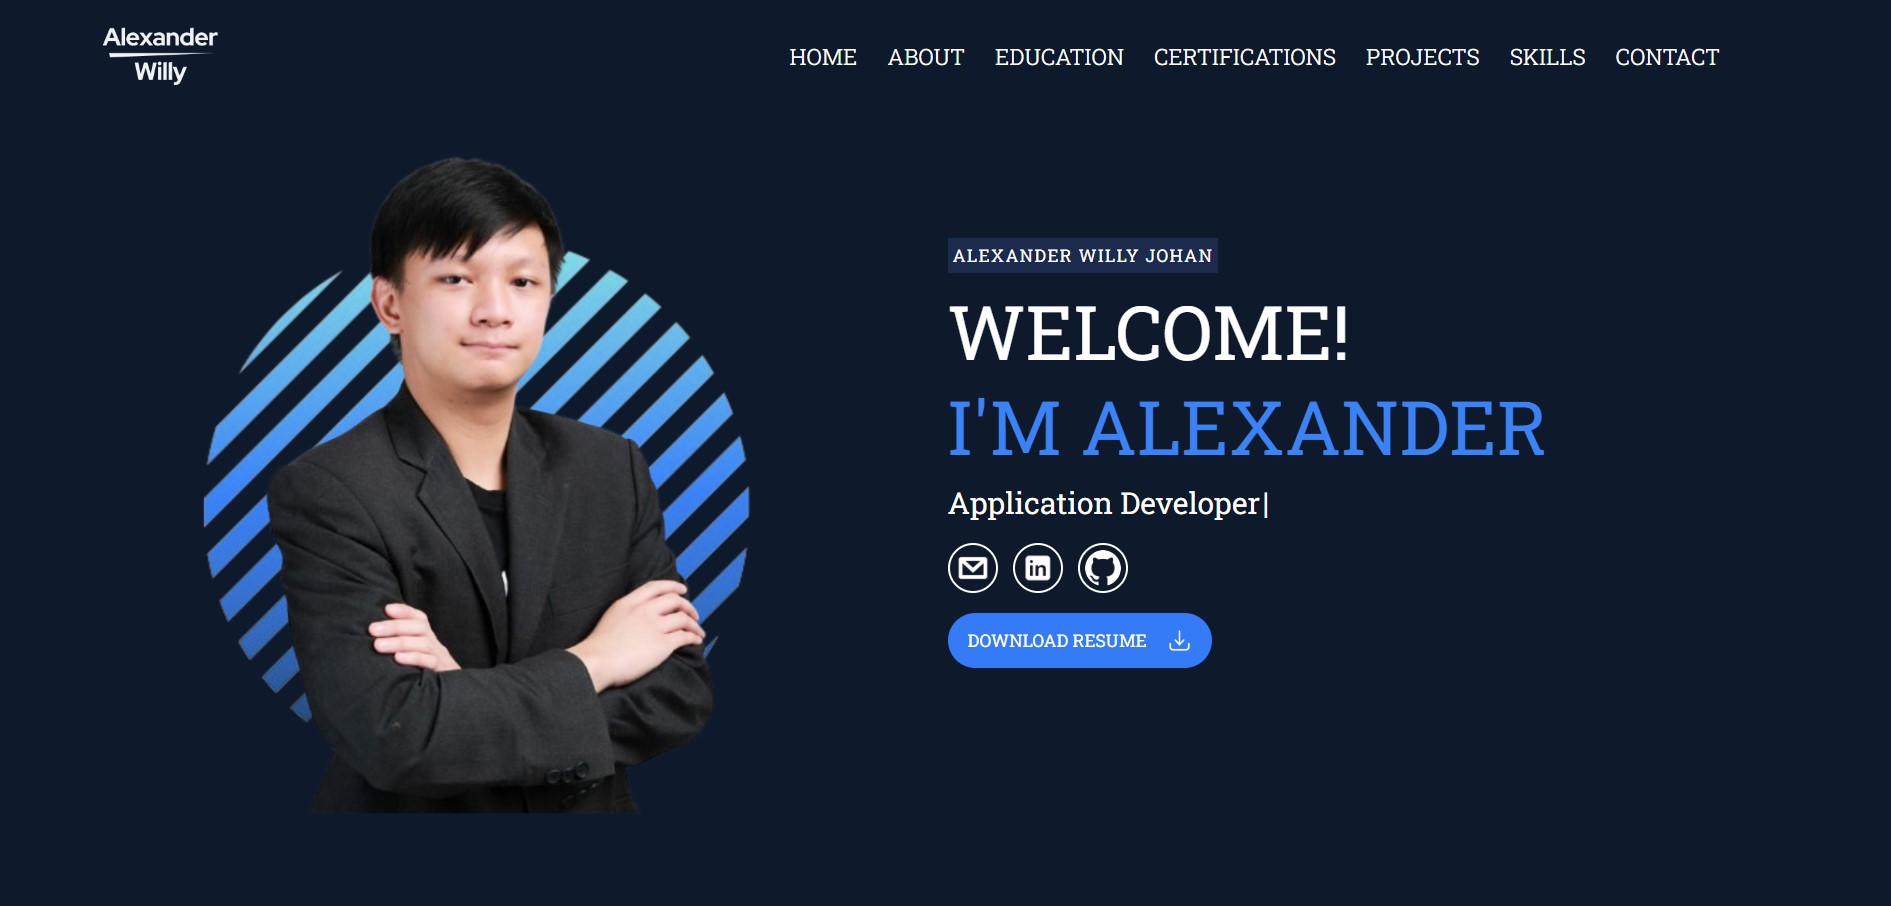
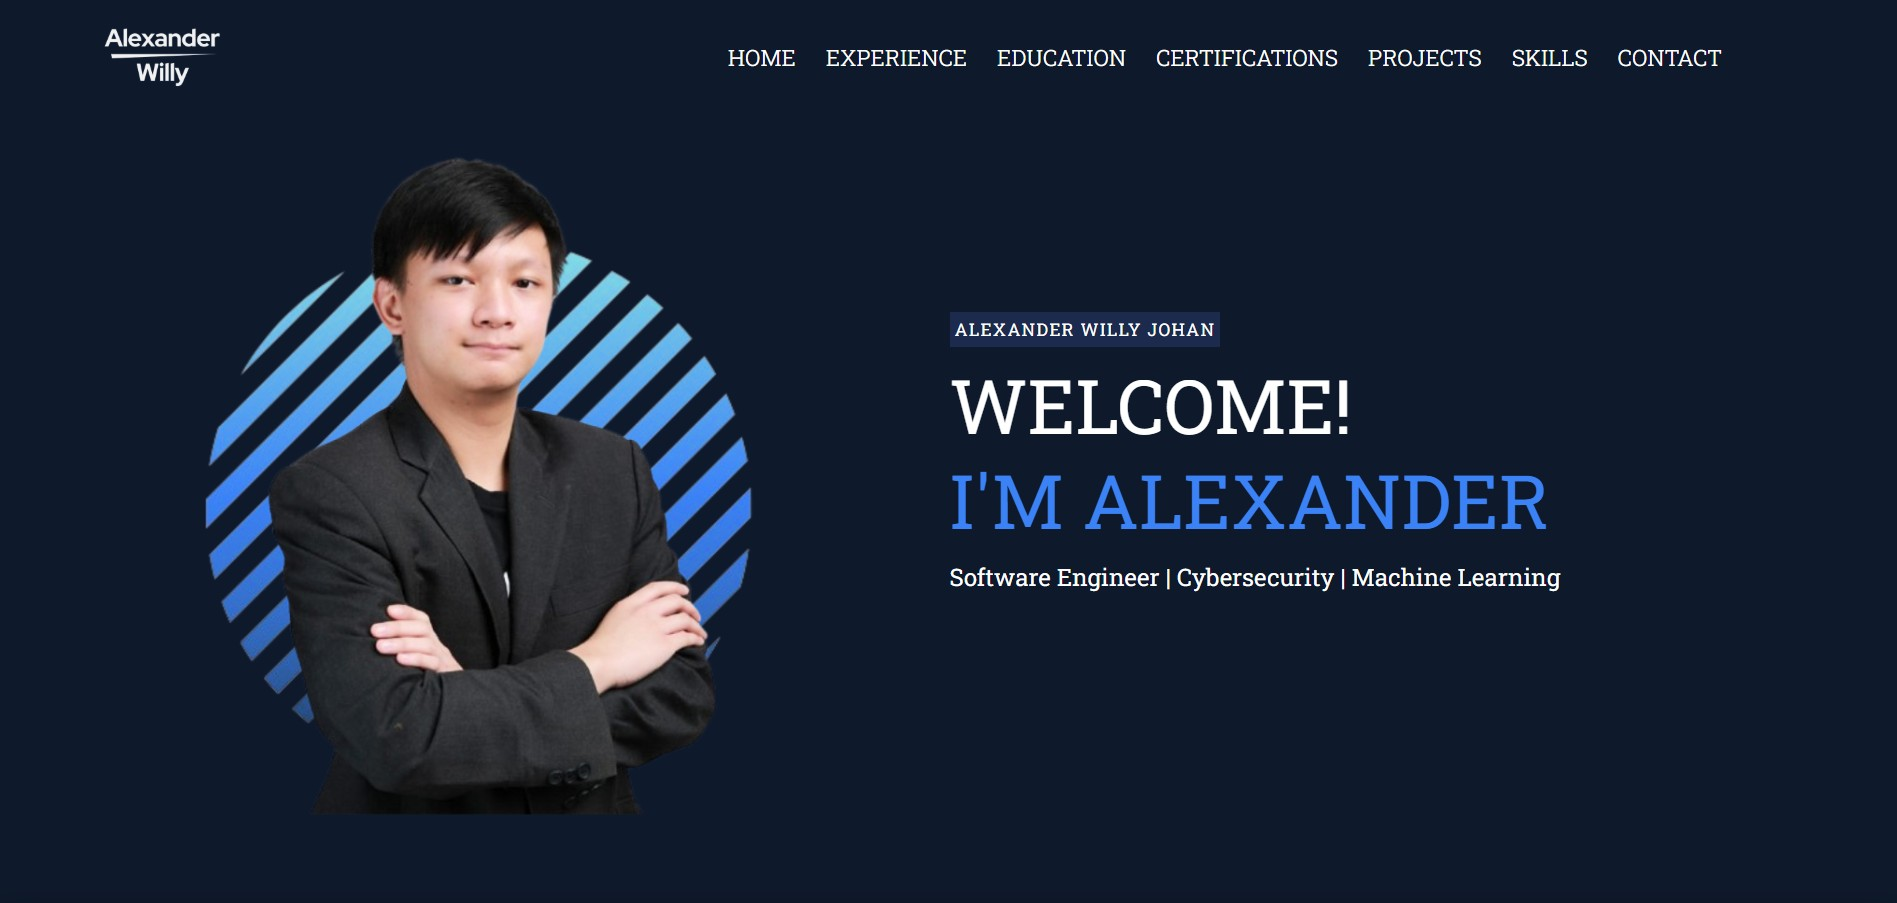
added education

diff --git a/src/App.js b/src/App.js
@@ -10,6 +10,7 @@ import github_icon from './props/img/social_media/github_icon.png';
 // Experience
 import trees_solutions from './props/img/experience/pt__trees_solutions_logo.jpeg'
 // Education
+import smu_logo from './props/img/education/smu_logo.png';
 import uow_logo from './props/img/education/uow_logo.png';
 import simge_logo from './props/img/education/simge_logo.png';
 // Certifications
@@ -103,7 +104,7 @@ const App = () => {
 
             <div className='home-text'>
               
-              <span>Application Developer | Software Engineer | Cybersecurity</span>
+              <span>Software Engineer | Cybersecurity | Machine Learning</span>
 
             </div>
             
@@ -122,8 +123,8 @@ const App = () => {
         <div>
           <span>
             <h1>PT. TREES SOLUTIONS</h1>
-            <h6>Oct 2024 - Present</h6>
-            <h3>Cybersecurity Intern</h3>
+            <h6>Oct 2024 - Dec 2024</h6>
+            <h3>Functional Consultant Intern</h3>
             <ul>
               <li>Conducts vulnerability assessment and penetration testing on a web application and follows the OWASP Top 10: 2021 guidelines to identify security weaknesses.</li>
             </ul>
@@ -144,14 +145,27 @@ const App = () => {
         </h1>
         <div>
           <div>
+            <img src = {smu_logo} alt = "smu_logo" />
+          </div>
+          <span>
+            <h1>SINGAPORE MANAGEMENT UNIVERSITY</h1>
+            <h6>Jan 2025 - Apr 2026 <strong>(Expected)</strong></h6>
+            <h3>Master of IT in Business (Artificial Intelligence Track)</h3>
+            <ul>
+              <li>Recipient of the SMU PG ASEAN Scholarship</li>
+            </ul>
+          </span>
+        </div>
+        <div>
+          <div>
             <img src = {uow_logo} alt = "uow_logo" />
           </div>
           <span>
             <h1>UNIVERSITY OF WOLLONGONG - SIM CAMPUS</h1>
-            <h6>Oct 2022 - Dec 2024 <strong>(Expected)</strong></h6>
+            <h6>Oct 2022 - Dec 2024</h6>
             <h3>Bachelor of Computer Science (Cyber Security)</h3>
             <ul>
-              <li>Current equivalent GPA: 3.86/4.00</li>
+              <li>WAM: 84.31/100.00 (equivalent GPA: 3.85/4.00)</li>
             </ul>
           </span>
         </div>
@@ -228,6 +242,7 @@ const App = () => {
             <h1>Cafe Staff Management System</h1>
             <p>A system that supports Cafe owners in viewing and managing Cafe work slots, supports cafe staff in bidding for work slots and the cafe role, and supports cafe managers in reviewing and managing cafe staff and their work slot bids.</p>
             <div>
+              <button disabled>Repository Not Available</button>
             </div>
           </div>
           <div>
@@ -319,7 +334,7 @@ const App = () => {
       
       <footer>
         <div className='footer'>
-          <span>© 2024 Alexander Willy Johan</span>
+          <span>© 2025 Alexander Willy Johan</span>
         </div>
       </footer>
       

diff --git a/src/App.css b/src/App.css
@@ -140,6 +140,10 @@ section:nth-child(odd) {
 }
 
 /* Education Section */
+.edu{
+  justify-content: flex-start;
+  padding: 12vh 0;
+}
 .edu > div {
   background-color: #1c2b4d;
   padding: 1.5rem 2.5rem;
@@ -153,6 +157,7 @@ section:nth-child(odd) {
   height: 25vh;
   border: 2px solid black;
   box-shadow: 0px 2px 5px 0px black;
+  background-color: white;
 }
 
 .edu span {
@@ -223,7 +228,7 @@ section:nth-child(odd) {
   width: 100%;
   text-align: center;
   font-weight: 500;
-  color: #357bf7;
+  color: #ffd726;
 }
 
 .certs div h6,
@@ -307,6 +312,18 @@ section:nth-child(odd) {
 .projects a:hover {
   background-color: #60a5fa;
   transition: 0.5s;
+}
+
+.projects button {
+  background-color: #4c4c4c;
+  padding: 6px 12px 6px 12px;
+  border-radius: 5px;
+  color: white;
+  font-size: 12px;
+  text-decoration: none;
+  transition: 0.5s;
+  width: 220px;
+  text-align: center;
 }
 
 /* Skills */
@@ -577,6 +594,10 @@ footer {
 
   .projects img {
     height: 22.5vh;
+  }
+
+  .projects > div > div{
+    height: 50vh;
   }
 
   .skills > div > h2 {
